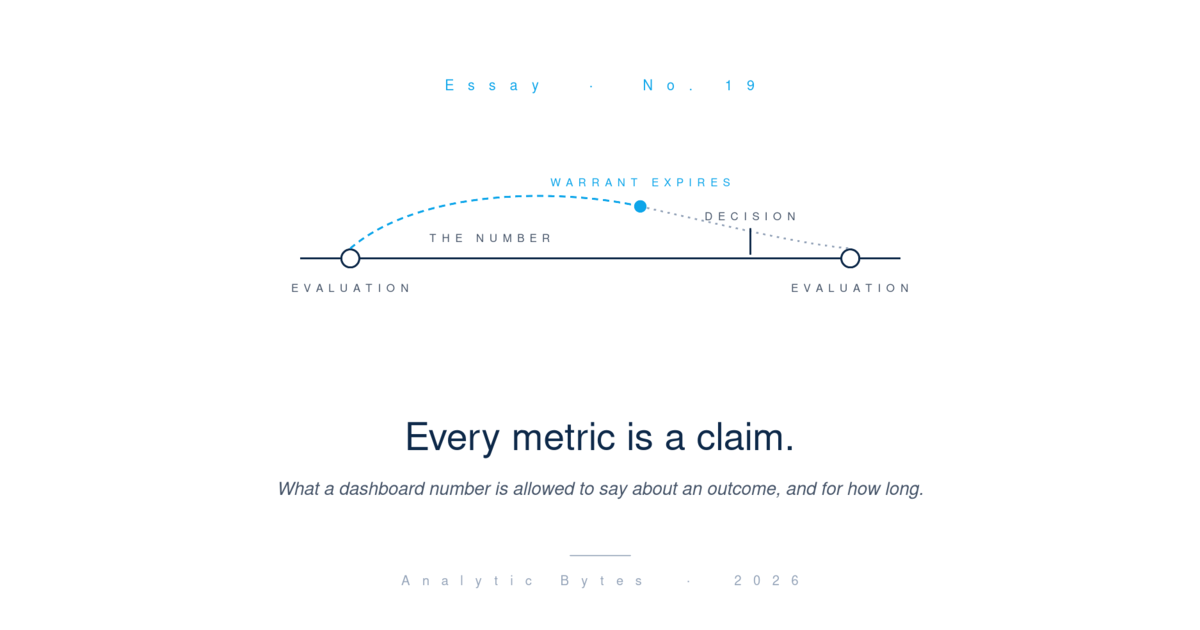
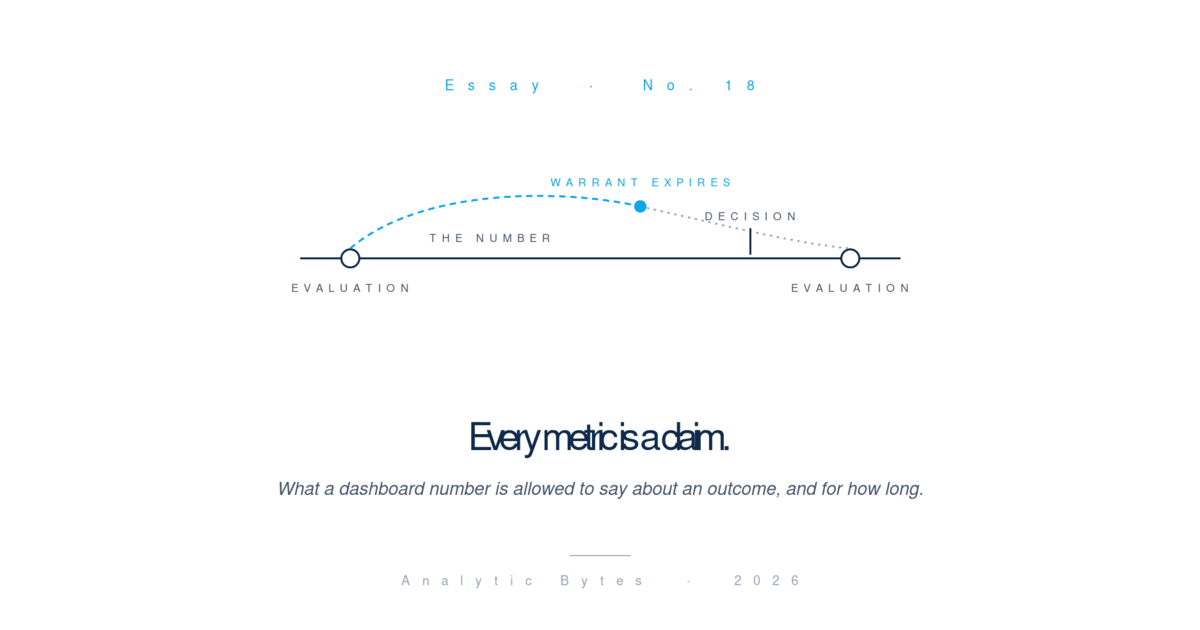
Every metric → E18, Three trainings → E19 (numbers follow publication order)

Changed region(s): [[0.3392, 0.6635, 0.6783, 0.7238]]

diff --git a/app/library/essays.tsx b/app/library/essays.tsx
@@ -9255,12 +9255,12 @@ export const ESSAYS: Essay[] = [
     ),
   },
   // ===================================================================
-  // ESSAY 18 — Three trainings, three questions. (DRAFT)
+  // ESSAY 19 — Three trainings, three questions. (DRAFT)
   // ===================================================================
   {
     kind: "essay",
     slug: "three-trainings",
-    number: "18",
+    number: "19",
     title: "Three trainings, three questions.",
     subtitle:
       "Why the third question becomes non-optional once an output is used as evidence.",
@@ -9812,12 +9812,12 @@ export const ESSAYS: Essay[] = [
   },
 
   // ===================================================================
-  // ESSAY 19 — Every metric is a claim.
+  // ESSAY 18 — Every metric is a claim.
   // ===================================================================
   {
     kind: "essay",
     slug: "every-metric-is-a-claim",
-    number: "19",
+    number: "18",
     title: "Every metric is a claim.",
     subtitle:
       "What a dashboard number is allowed to say about an outcome, and for how long.",
